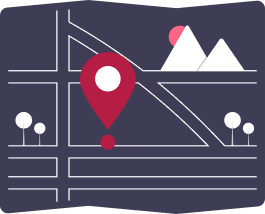
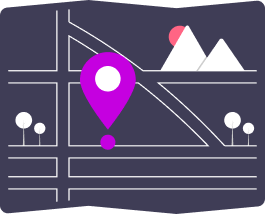
page TiposEvento finalizado/ atualizacao de cores do projeto/ iniciando page evento

Changed region(s): [[0.3019, 0.2243, 0.5132, 0.7009]]

diff --git a/React/eventplus/src/pages/EventosPage/EventosPage.jsx b/React/eventplus/src/pages/EventosPage/EventosPage.jsx
@@ -1,13 +1,167 @@
-import React from 'react';
-import './EventosPage.css'
-import Titulo from '../../components/Titulo/Titulo';
+import React, { useEffect, useState } from "react";
+import "./EventosPage.css";
+import Titulo from "../../components/Titulo/Titulo";
+import MainContent from "../../components/MainContent/MainContent";
+import Container from "../../components/Container/Container";
+import ImageIlustrator from "../../components/ImageIllustrator/ImageIllustrator";
+import EventoImage from "../../assets/images/evento.svg";
+import { Input, Button } from "../../components/FormComponents/FormComponents";
+import api, { eventsTypeResource } from "../../Services/Service";
+import TableE from "./TableE/TableE";
+import Notification from "../../components/Notification/Notification";
+import Spinner from "../../components/Spinner/Spinner"
 
-const EventosPage = () => {
-    return (
-        <div>
-            <Titulo tituloTexto="Eventos Page"/>
-        </div>
-    );
+const TipoEventosPage = () => {
+  //STATES
+  const [frmEdit, setFrmEdit] = useState(false); //esta em modo de edicao
+
+  const [titulo, setTitulo] = useState("");
+
+  const [tipoEventos, setTipoEventos] = useState([]); //state de array vazia
+
+  const [notifyUser, setNotifyUser] = useState();
+
+  const [showSpinner, setShowSpinner] = useState(false);
+
+  useEffect(() => {
+    async function loadEventsType() {
+      setShowSpinner(false);
+      
+      
+      try {
+        //chamando a funcao controladora e jogando as informações da api na array vazia tipoEventos
+        const retorno = await api.get(eventsTypeResource);
+        setTipoEventos(retorno.data);
+        console.log(retorno.data);
+      } catch (error) {
+        console.log("Erro na api");
+        console.log(error);
+      }
+    }
+    //chama a funcao/api no carregamento da pagina/componente
+    loadEventsType();
+  }, []);
+
+  async function handleSubmit(e) {
+    
+  }
+
+  async function handleUpdate(e) {
+    
+  }
+
+  //mostra o formulario de edicao
+  async function showUpdateForm() {
+    
+  }
+
+  //cancela a tela/acao de edicao (volta para o form de cadastro)
+  function editActionAbort() {
+    setFrmEdit(false);
+    setTitulo("");
+    setIdEvento(null);
+  }
+
+  //apaga o tipo de evento de api
+  async function handleDelete() {
+    
+  }
+
+  return (
+    <>
+      {<Notification {...notifyUser} setNotifyUser={setNotifyUser} />}
+
+      {showSpinner ? <Spinner /> : null}
+      
+      <MainContent>
+        {/* formulario de cadastro do tipo de evento */}
+        <section className="cadastro-evento-section">
+          <Container>
+            <div className="cadastro-evento__box">
+              <Titulo tituloTexto={"Cadastro de Eventos"} />
+
+              <ImageIlustrator imageRender={EventoImage} />
+
+              <form
+                className="ftipo-evento"
+                onSubmit={frmEdit ? handleUpdate : handleSubmit}
+              >
+                {!frmEdit ? ( //cadastrar
+                  <>
+                    <Input
+                      id="Titulo"
+                      placeholdder={"Titulo"}
+                      name={"titulo"}
+                      type={"text"}
+                      required={"required"}
+                      value={titulo}
+                      manipulationFunction={(e) => {
+                        setTitulo(e.target.value);
+                      }}
+                    />
+
+                    <Button
+                      textButton="Cadastrar"
+                      id="cadastrar"
+                      name="cadastrar"
+                      //formulário só será chamado pois seu type é submit
+                      type="submit"
+                    />
+                  </>
+                ) : (
+                  //editar
+                  <>
+                    <Input
+                      id="Titulo"
+                      placeholdder={"Titulo"}
+                      name={"titulo"}
+                      type={"text"}
+                      required={"required"}
+                      value={titulo}
+                      manipulationFunction={(e) => {
+                        setTitulo(e.target.value);
+                      }}
+                    />
+                    
+                    <div className="buttons-editbox">
+                      <Button
+                        textButton="Atualizar"
+                        id="atualizar"
+                        name="atualizar"
+                        type="submit"
+                        additionalClass="button-component--middle"
+                      />
+
+                      <Button
+                        textButton="Cancelar"
+                        id="cancelar"
+                        name="cancelar"
+                        type="submit"
+                        manipulationFunction={editActionAbort}
+                        additionalClass="button-component--middle"
+                      />
+                    </div>
+                  </>
+                )}
+              </form>
+            </div>
+          </Container>
+        </section>
+
+        {/* Listagem de tipo de eventos*/}
+        <section className="lista-eventos-section">
+          <Container>
+            <Titulo tituloTexto={"Lista de Eventos"} color="white" />
+            <TableE
+              dados={tipoEventos}
+              fnUpdate={showUpdateForm}
+              fnDelete={handleDelete}
+            />
+          </Container>
+        </section>
+      </MainContent>
+    </>
+  );
 };
 
-export default EventosPage;
+export default TipoEventosPage;

diff --git a/React/eventplus/src/pages/EventosPage/TableE/TableE.jsx b/React/eventplus/src/pages/EventosPage/TableE/TableE.jsx
@@ -1,0 +1,62 @@
+import React from "react";
+import "./TableE.css"
+import editPen from "../../../assets/images/edit-pen.svg";
+import trashDelete from "../../../assets/images/trash-delete.svg";
+
+const TableE = ({ dados, fnDelete = null, fnUpdate = null }) => {
+  return (
+    <table className="table-data">
+      <thead className="table-data__head">
+        <tr className="table-data__head-row">
+          <th className="table-data__head-title table-data__head-title--big">
+            Nome
+          </th>
+          <th className="table-data__head-title table-data__head-title--big">
+            Tipo de Evento
+          </th>
+          <th className="table-data__head-title table-data__head-title--big">
+            Descricao
+          </th>
+          <th className="table-data__head-title table-data__head-title--big">
+            Data
+          </th>
+          <th className="table-data__head-title table-data__head-title--little">
+            Editar
+          </th>
+          <th className="table-data__head-title table-data__head-title--little">
+            Deletar
+          </th>
+        </tr>
+      </thead>
+      <tbody>
+        {dados.map(ev => {
+            return(
+                <tr className="table-data__head-row" key={ev.idEvento}>
+                    <td className="table-data__data table-data__data--big">
+                        {ev.Nome}
+                    </td>
+                    <td className="table-data__data table-data__data--big">
+                        {ev.tipoEvento}
+                    </td>
+                    <td className="table-data__data table-data__data--big">
+                        {ev.descricao}
+                    </td>
+                    <td className="table-data__data table-data__data--big">
+                        {ev.data}
+                    </td>
+
+                    <td className="table-data__data table-data__data--little">
+                        <img src={editPen} alt="" className="table-data__icon" onClick={() => fnUpdate(ev.idTipoEvento)}/>
+                    </td>
+                    <td className="table-data__data table-data__data--little">
+                        <img src={trashDelete} alt="" className="table-data__icon" onClick={() => fnDelete(ev.idTipoEvento, ev.titulo)}/>
+                    </td>
+                </tr>
+            )
+        })}
+      </tbody>
+    </table>
+  );
+};
+
+export default TableE;

diff --git a/React/eventplus/src/pages/HomePage/HomePage.jsx b/React/eventplus/src/pages/HomePage/HomePage.jsx
@@ -27,9 +27,9 @@ const HomePage = () => {
                 setNextEvents(dados);
             }catch(error){
                 setNotifyUser({
-                    titleNote: "Sucesso",
-                    textNote,
-                    imgIcon: "Success",
+                    titleNote: "Erro",
+                    textNote:`Erro de conexao com a Api`,
+                    imgIcon: "danger",
                     imgAlt:
                       "Imagem de ilustração de sucesso. Moça segurando um balão com simbolo d confirmação",
                     showMessage: true,

diff --git a/React/eventplus/src/components/FormComponents/FormComponents.css b/React/eventplus/src/components/FormComponents/FormComponents.css
@@ -10,14 +10,17 @@
     padding: 0 5px;
     border: none; /* reset de bordas */
     outline: none;
+    color: white;
 
     font-family: Poppins-Regular;
     font-size: 1rem;
-    border-bottom: 2px solid var(--color-dark-blue);
+    border-bottom: 2px solid white;
+    background-color: #34014B;
+
 }
 
 .input-component::placeholder {
-    color: var(--color-dark-blue);
+    color:white;
 }
 
 .button-component {

diff --git a/React/eventplus/src/components/NextEvent/NextEvent.css b/React/eventplus/src/components/NextEvent/NextEvent.css
@@ -22,9 +22,10 @@
     width: 250px;
     height: 250px;
     padding: 25px;
-    border: 1px solid var(--color-blue-red);
+    border: 1px solid var(--color-red);
     border-radius: 5px;
-    overflow: auto;
+    overflow-y: hidden;
+    color: white;
 }
 
 .event-card__title {

diff --git a/React/eventplus/src/pages/TipoEventosPage/TableTp/TableTp.jsx b/React/eventplus/src/pages/TipoEventosPage/TableTp/TableTp.jsx
@@ -1,5 +1,5 @@
 import React from 'react';
-import './TableTp.css'
+import "./TableTp.css"
 import editPen from '../../../assets/images/edit-pen.svg'
 import trashDelete from '../../../assets/images/trash-delete.svg'
 
